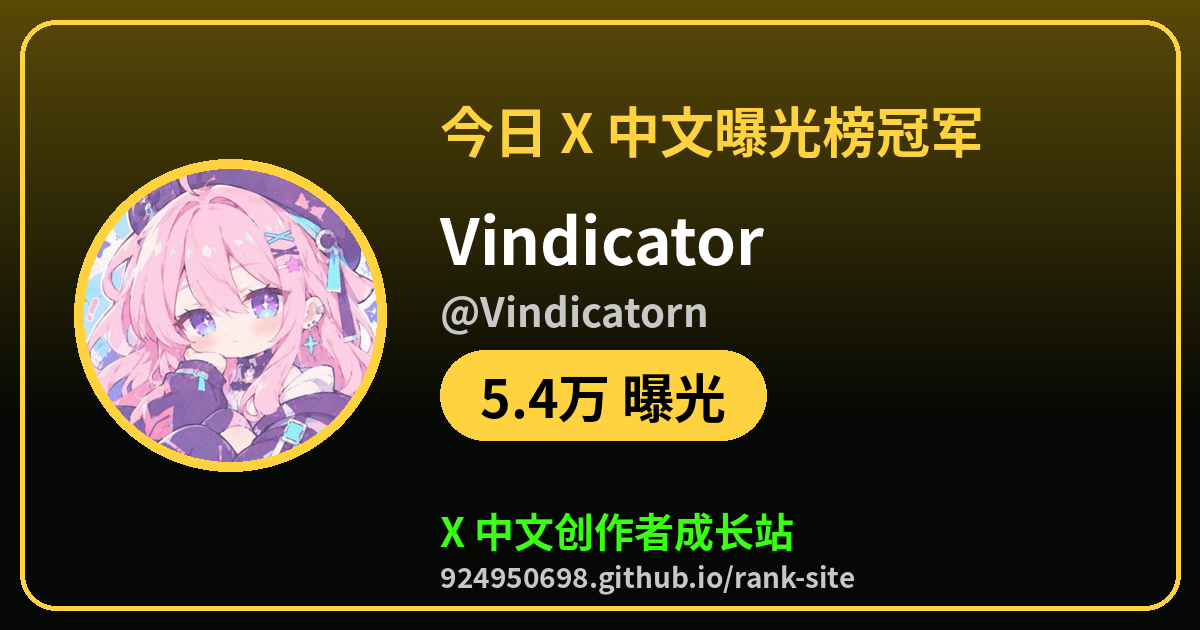
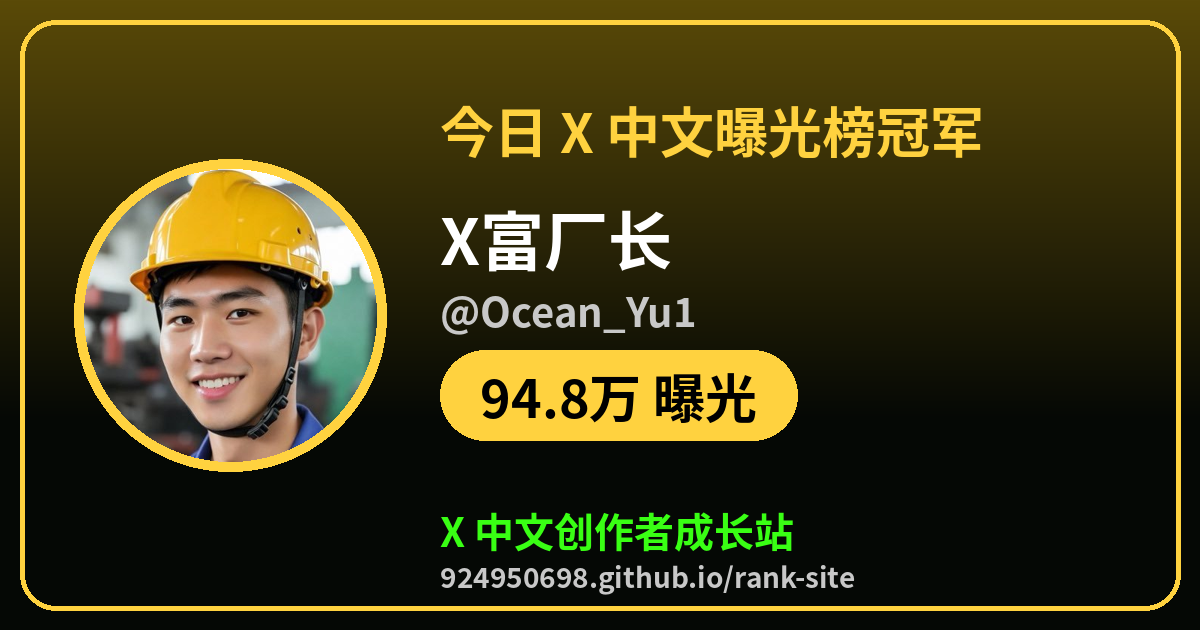
champ pages: 2026-10-20 15:29 CST

Changed region(s): [[0.0617, 0.2714, 0.3392, 0.754], [0.37, 0.3317, 0.6475, 0.5429], [0.4008, 0.5429, 0.6783, 0.7238]]

diff --git a/champ/exposure.html b/champ/exposure.html
@@ -1,7 +1,7 @@
 <!doctype html><html lang="zh-CN"><head><meta charset="utf-8"><meta name="viewport" content="width=device-width,initial-scale=1">
-<title>今日 X 中文曝光榜冠军：Vindicator（@Vindicatorn）</title><meta name="description" content="5.4万 曝光，来看看今天谁在爆，你排第几">
-<meta property="og:type" content="website"><meta property="og:url" content="https://924950698.github.io/rank-site/champ/exposure.html"><meta property="og:title" content="今日 X 中文曝光榜冠军：Vindicator（@Vindicatorn）"><meta property="og:description" content="5.4万 曝光，来看看今天谁在爆，你排第几">
-<meta property="og:image" content="https://924950698.github.io/rank-site/champ/exposure.png?v=20261019T0008"><meta name="twitter:card" content="summary_large_image"><meta name="twitter:site" content="@tigerr3aue">
-<meta name="twitter:title" content="今日 X 中文曝光榜冠军：Vindicator（@Vindicatorn）"><meta name="twitter:description" content="5.4万 曝光，来看看今天谁在爆，你排第几"><meta name="twitter:image" content="https://924950698.github.io/rank-site/champ/exposure.png?v=20261019T0008">
-<meta http-equiv="refresh" content="0;url=https://924950698.github.io/rank-site/?champ=Vindicatorn&amp;board=exposure#rank"><script>location.replace("https://924950698.github.io/rank-site/?champ=Vindicatorn&board=exposure#rank")</script></head>
-<body style="background:#000;color:#fff;font-family:sans-serif;text-align:center;padding:40px"><a href="https://924950698.github.io/rank-site/?champ=Vindicatorn&amp;board=exposure#rank" style="color:#39ff14">去 X 中文创作者成长站看冠军卡片</a></body></html>
+<title>今日 X 中文曝光榜冠军：X富厂长（@Ocean_Yu1）</title><meta name="description" content="94.8万 曝光，来看看今天谁在爆，你排第几">
+<meta property="og:type" content="website"><meta property="og:url" content="https://924950698.github.io/rank-site/champ/exposure.html"><meta property="og:title" content="今日 X 中文曝光榜冠军：X富厂长（@Ocean_Yu1）"><meta property="og:description" content="94.8万 曝光，来看看今天谁在爆，你排第几">
+<meta property="og:image" content="https://924950698.github.io/rank-site/champ/exposure.png?v=20261020T0710"><meta name="twitter:card" content="summary_large_image"><meta name="twitter:site" content="@tigerr3aue">
+<meta name="twitter:title" content="今日 X 中文曝光榜冠军：X富厂长（@Ocean_Yu1）"><meta name="twitter:description" content="94.8万 曝光，来看看今天谁在爆，你排第几"><meta name="twitter:image" content="https://924950698.github.io/rank-site/champ/exposure.png?v=20261020T0710">
+<meta http-equiv="refresh" content="0;url=https://924950698.github.io/rank-site/?champ=Ocean_Yu1&amp;board=exposure#rank"><script>location.replace("https://924950698.github.io/rank-site/?champ=Ocean_Yu1&board=exposure#rank")</script></head>
+<body style="background:#000;color:#fff;font-family:sans-serif;text-align:center;padding:40px"><a href="https://924950698.github.io/rank-site/?champ=Ocean_Yu1&amp;board=exposure#rank" style="color:#39ff14">去 X 中文创作者成长站看冠军卡片</a></body></html>

diff --git a/champ/comments.html b/champ/comments.html
@@ -1,7 +1,7 @@
 <!doctype html><html lang="zh-CN"><head><meta charset="utf-8"><meta name="viewport" content="width=device-width,initial-scale=1">
-<title>今日 X 中文评论榜冠军：比特币总裁（@chairbtc）</title><meta name="description" content="62 评论，来看看今天谁在爆，你排第几">
-<meta property="og:type" content="website"><meta property="og:url" content="https://924950698.github.io/rank-site/champ/comments.html"><meta property="og:title" content="今日 X 中文评论榜冠军：比特币总裁（@chairbtc）"><meta property="og:description" content="62 评论，来看看今天谁在爆，你排第几">
-<meta property="og:image" content="https://924950698.github.io/rank-site/champ/comments.png?v=20261019T0008"><meta name="twitter:card" content="summary_large_image"><meta name="twitter:site" content="@tigerr3aue">
-<meta name="twitter:title" content="今日 X 中文评论榜冠军：比特币总裁（@chairbtc）"><meta name="twitter:description" content="62 评论，来看看今天谁在爆，你排第几"><meta name="twitter:image" content="https://924950698.github.io/rank-site/champ/comments.png?v=20261019T0008">
-<meta http-equiv="refresh" content="0;url=https://924950698.github.io/rank-site/?champ=chairbtc&amp;board=comments#rank"><script>location.replace("https://924950698.github.io/rank-site/?champ=chairbtc&board=comments#rank")</script></head>
-<body style="background:#000;color:#fff;font-family:sans-serif;text-align:center;padding:40px"><a href="https://924950698.github.io/rank-site/?champ=chairbtc&amp;board=comments#rank" style="color:#39ff14">去 X 中文创作者成长站看冠军卡片</a></body></html>
+<title>今日 X 中文评论榜冠军：X富厂长（@Ocean_Yu1）</title><meta name="description" content="472 评论，来看看今天谁在爆，你排第几">
+<meta property="og:type" content="website"><meta property="og:url" content="https://924950698.github.io/rank-site/champ/comments.html"><meta property="og:title" content="今日 X 中文评论榜冠军：X富厂长（@Ocean_Yu1）"><meta property="og:description" content="472 评论，来看看今天谁在爆，你排第几">
+<meta property="og:image" content="https://924950698.github.io/rank-site/champ/comments.png?v=20261020T0710"><meta name="twitter:card" content="summary_large_image"><meta name="twitter:site" content="@tigerr3aue">
+<meta name="twitter:title" content="今日 X 中文评论榜冠军：X富厂长（@Ocean_Yu1）"><meta name="twitter:description" content="472 评论，来看看今天谁在爆，你排第几"><meta name="twitter:image" content="https://924950698.github.io/rank-site/champ/comments.png?v=20261020T0710">
+<meta http-equiv="refresh" content="0;url=https://924950698.github.io/rank-site/?champ=Ocean_Yu1&amp;board=comments#rank"><script>location.replace("https://924950698.github.io/rank-site/?champ=Ocean_Yu1&board=comments#rank")</script></head>
+<body style="background:#000;color:#fff;font-family:sans-serif;text-align:center;padding:40px"><a href="https://924950698.github.io/rank-site/?champ=Ocean_Yu1&amp;board=comments#rank" style="color:#39ff14">去 X 中文创作者成长站看冠军卡片</a></body></html>
